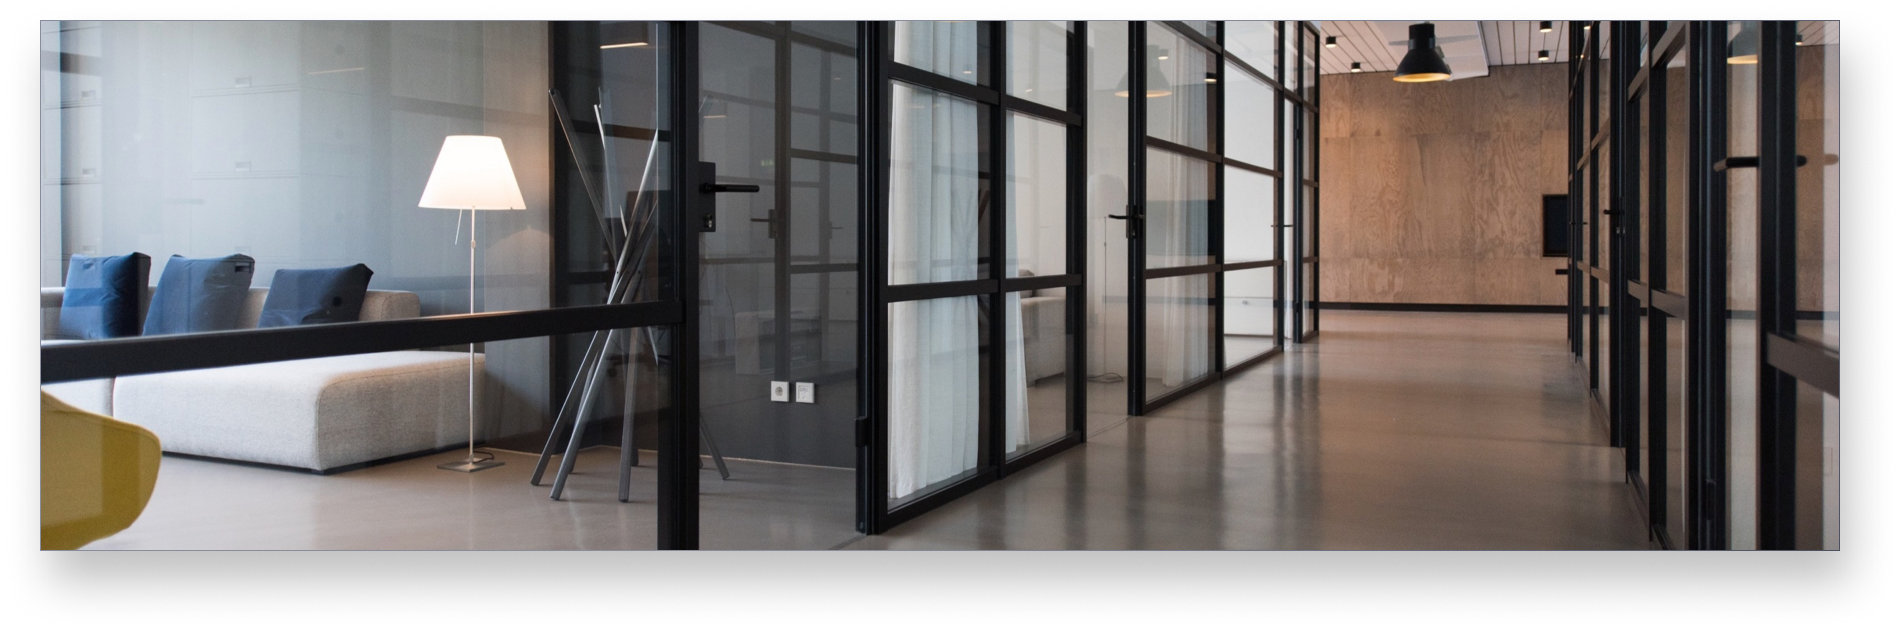
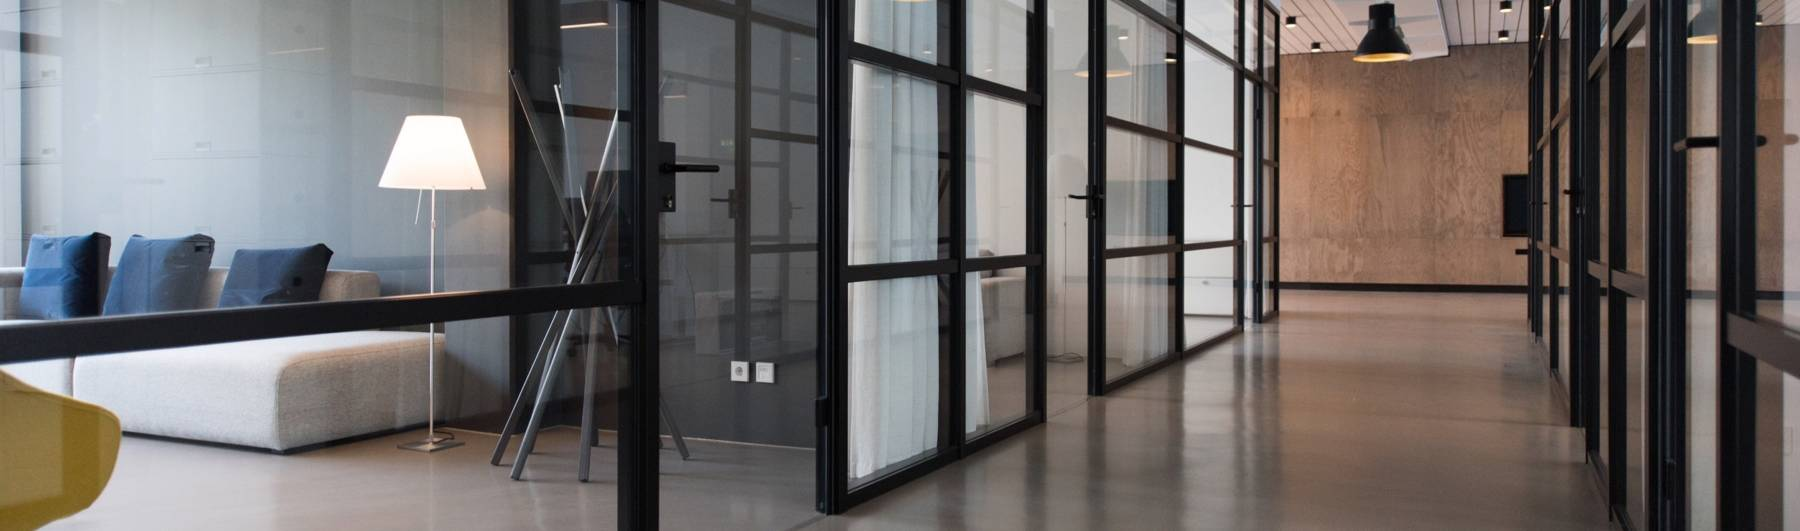
Done about page, done restore password

diff --git a/src/blocks/components/about-top/about-top.scss b/src/blocks/components/about-top/about-top.scss
@@ -1,36 +1,64 @@
 .about-top {
+  @include row-flex();
+  justify-content: center;
 
-    &__img {
-        width: 100%;
-        & img {
-            max-width: 100%;
-            height: auto;
+  &__section {
+    margin-bottom: 40px;
+    @include md-block {
+      margin-bottom: 76px;
+    }
+  }
 
-        }
+  &__img {
+    background-position: center;
+    background-size: cover;
+    background-repeat: no-repeat;
+    box-shadow: 10px 30px 50px rgba(0, 0, 0, 0.25);
+    @include border-gradient();
+    @include col();
+    @include size(4);
+
+    height: 150px;
+    @include xs-block {
+      height: 200px;
+    }
+    @include sm-block {
+      height: 300px;
     }
 
-    &__content {
-        padding-top: 37px;
-        margin: auto;
-        max-width: 890px;
-        text-align: left;
-        font-weight: 500;
-        font-size: 18px;
-        line-height: 28px;
-        color:#FFFFFF;
-
-        & p {
-            text-align: left;
-            font-weight: 500;
-            font-size: 18px;
-            line-height: 28px;
-            color:#FFFFFF;
-            margin-bottom: 16px;
-
-        }
-
+    @include md-block {
+      height: 400px;
     }
 
+    @include lg-block {
+      height: 531px;
+    }
+  }
+
+  &__content {
+    @include col();
+    @include size-xl(2);
+    @include size-md(3);
+    @include size(4);
+    padding-top: 37px;
+    margin: auto;
+    text-align: left;
+    font-weight: 500;
+    font-size: 16px;
+    line-height: 24px;
+    color: #fff;
+
+    @include md-block {
+      font-size: 18px;
+      line-height: 28px;
+    }
+
+    & p {
+      margin-bottom: 16px;
+
+      &:last-child {
+        margin-bottom: 0;
+      }
+    }
+  }
 }
-
-

diff --git a/src/blocks/components/link-with-desc/_link-with-desc.scss b/src/blocks/components/link-with-desc/_link-with-desc.scss
@@ -104,15 +104,19 @@
 .link-with-icon {
   & .link {
     font-weight: 500;
-    font-size: 16px;
+    font-size: 15px;
     line-height: 20px;
     word-wrap: break-word;
     white-space: pre-line;
     word-break:break-all;
 
     @include md-block {
-      font-size: 20px;
+      font-size: 18px;
       line-height: 24px;
+    }
+
+    @include xl-block {
+      font-size: 20px;
     }
   }
 }

diff --git a/src/blocks/components/personal-card/personal-card.scss b/src/blocks/components/personal-card/personal-card.scss
@@ -7,7 +7,15 @@
 
   &__list & {
     @include col();
-    @include size(1);
+    @include size-lg(1);
+    @include size-md(2);
+    @include size(4);
+
+    margin-bottom: 20px;
+
+    @include xl-block {
+      margin-bottom: 0;
+    }
   }
 
   &__head {

diff --git a/src/styles/general/base.scss b/src/styles/general/base.scss
@@ -196,3 +196,13 @@ main {
   line-height: 32px;
   color: #fff;
 }
+
+.form {
+  max-width: 435px;
+  &__wrap {
+    padding: 24px;
+    width: 100%;
+    @include bg-gradient();
+    box-shadow: 10px 30px 50px rgba(0, 0, 0, 0.25);
+  }
+}

diff --git a/src/js/classes/BaronScroll.js b/src/js/classes/BaronScroll.js
@@ -41,6 +41,9 @@ export class BaronScroll {
   }
 
   initScroll() {
+    if (!$(this.options.root).length) {
+      return;
+    }
     baron({
       root: this.options.root,
       scroller: `.${this.scroller}`,
